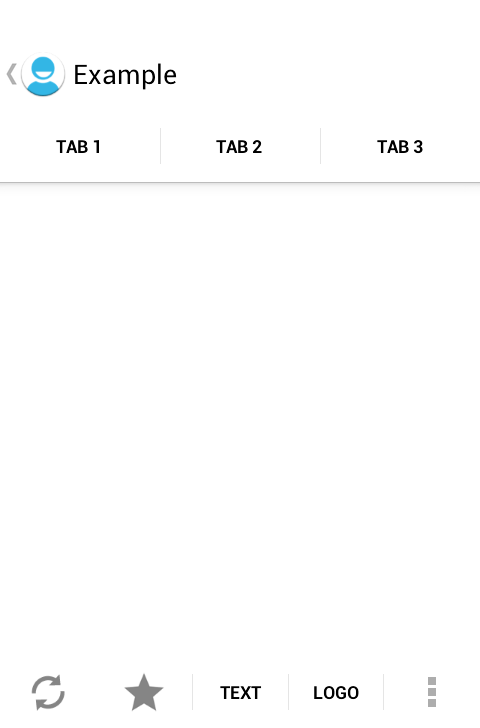
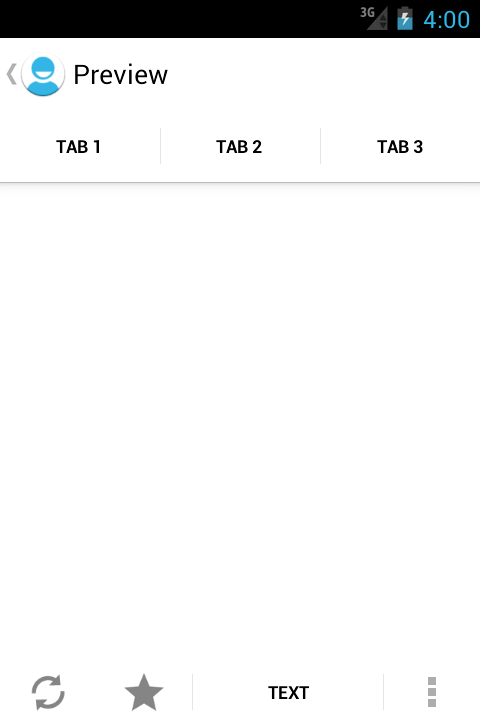
implemented preview for light/dark, solid/transparent. closes #3

Changed region(s): [[0.0, 0.0, 1.0, 0.0604], [0.4688, 0.9368, 0.75, 0.967], [0.1562, 0.0907, 0.375, 0.1209]]

diff --git a/src/html/index.html b/src/html/index.html
@@ -168,15 +168,26 @@
       for (var template in xmlTemplates)
         xmlList[template] = (
           'res/actionbar-xml-templates/' + template + '.xml');
+      
+      var previewList = {};
+      
+      for (var theme in {'light':1, 'dark':1}) {
+        for (var type in {'solid':1, 'transparent':1}) {
+          previewList['back' + '-' + theme + '-' + type] = (
+              'res/actionbar-preview/' + theme + '-' + type + '/' + 'back.png');
+          previewList['fore2' + '-' + theme + '-' + type] = (
+              'res/actionbar-preview/' + theme + '-' + type + '/' + 'fore2.png');
+          previewList['mask-ab-main' + '-' + theme + '-' + type] = (
+              'res/actionbar-preview/' + theme + '-' + type + '/' + 'mask_ab_main.png');
+          previewList['mask-ab-stacked' + '-' + theme + '-' + type] = (
+              'res/actionbar-preview/' + theme + '-' + type + '/' + 'mask_ab_stacked.png');
+          previewList['mask-accent' + '-' + theme + '-' + type] = (
+              'res/actionbar-preview/' + theme + '-' + type + '/' + 'mask_accent.png');
+          previewList['mask-popup' + '-' + theme + '-' + type] = (
+              'res/actionbar-preview/' + theme + '-' + type + '/' + 'mask_popup.png');
+        }
+      }
           
-      var previewList = {
-      	'back':'res/actionbar-preview/light-solid/back.png',
-      	'fore1':'res/actionbar-preview/light-solid/fore1.png',
-      	'mask-ab-main':'res/actionbar-preview/light-solid/mask_ab_main.png',
-      	'mask-ab-stacked':'res/actionbar-preview/light-solid/mask_ab_stacked.png',
-      	'mask-accent':'res/actionbar-preview/light-solid/mask_accent.png'
-      };
-
 	  var XML_RESOURCES = {};
 	  var IMAGE_RESOURCES = {};
 	  var PREVIEW_RESOURCES = {};
@@ -520,12 +531,15 @@
 			var tmpCtxAB = imagelib.drawing.context(iconSize);
 			var tmpCtxStacked = imagelib.drawing.context(iconSize);
 			var tmpCtxAccent = imagelib.drawing.context(iconSize);
+			var tmpCtxPopup = imagelib.drawing.context(iconSize);
 
 			var fillColor = values['backColor'].color;
+			
+			var abStyle = values['actionbarstyle'];
 
 			tmpCtxAB.save();
 			tmpCtxAB.globalCompositeOperation = 'source-over';
-			imagelib.drawing.copy(tmpCtxAB, PREVIEW_RESOURCES['mask-ab-main'], iconSize);
+			imagelib.drawing.copy(tmpCtxAB, PREVIEW_RESOURCES['mask-ab-main' + '-' + baseTheme + '-' + abStyle], iconSize);
 			tmpCtxAB.globalCompositeOperation = 'source-atop';
 			tmpCtxAB.fillStyle = fillColor;
 			tmpCtxAB.fillRect(0, 0, iconSize.w, iconSize.h);
@@ -535,7 +549,7 @@
 			
 			tmpCtxStacked.save();
 			tmpCtxStacked.globalCompositeOperation = 'source-over';
-			imagelib.drawing.copy(tmpCtxStacked, PREVIEW_RESOURCES['mask-ab-stacked'], iconSize);
+			imagelib.drawing.copy(tmpCtxStacked, PREVIEW_RESOURCES['mask-ab-stacked' + '-' + baseTheme + '-' + abStyle], iconSize);
 			tmpCtxStacked.globalCompositeOperation = 'source-atop';
 			tmpCtxStacked.fillStyle = fillColor;
 			tmpCtxStacked.fillRect(0, 0, iconSize.w, iconSize.h);
@@ -545,18 +559,29 @@
 			
 			tmpCtxAccent.save();
 			tmpCtxAccent.globalCompositeOperation = 'source-over';
-			imagelib.drawing.copy(tmpCtxAccent, PREVIEW_RESOURCES['mask-accent'], iconSize);
+			imagelib.drawing.copy(tmpCtxAccent, PREVIEW_RESOURCES['mask-accent' + '-' + baseTheme + '-' + abStyle], iconSize);
 			tmpCtxAccent.globalCompositeOperation = 'source-atop';
 			tmpCtxAccent.fillStyle = fillColor;
 			tmpCtxAccent.fillRect(0, 0, iconSize.w, iconSize.h);
 			tmpCtxAccent.restore();
 
-			var foreEffect = 1;
-			imagelib.drawing.copy(outCtx, PREVIEW_RESOURCES['back'], iconSize);
+			fillColor = values['tertiaryColor'].color;
+			
+			tmpCtxPopup.save();
+			tmpCtxPopup.globalCompositeOperation = 'source-over';
+			imagelib.drawing.copy(tmpCtxPopup, PREVIEW_RESOURCES['mask-popup' + '-' + baseTheme + '-' + abStyle], iconSize);
+			tmpCtxPopup.globalCompositeOperation = 'source-atop';
+			tmpCtxPopup.fillStyle = fillColor;
+			tmpCtxPopup.fillRect(0, 0, iconSize.w, iconSize.h);
+			tmpCtxPopup.restore();
+
+			var foreEffect = 2;
+			imagelib.drawing.copy(outCtx, PREVIEW_RESOURCES['back' + '-' + baseTheme + '-' + abStyle], iconSize);
 			imagelib.drawing.copy(outCtx, tmpCtxAB, iconSize);
 			imagelib.drawing.copy(outCtx, tmpCtxStacked, iconSize);
+			imagelib.drawing.copy(outCtx, tmpCtxPopup, iconSize);
 			imagelib.drawing.copy(outCtx, tmpCtxAccent, iconSize);
-			imagelib.drawing.copy(outCtx, PREVIEW_RESOURCES['fore' + foreEffect], iconSize);
+			imagelib.drawing.copy(outCtx, PREVIEW_RESOURCES['fore' + foreEffect + '-' + baseTheme + '-' + abStyle], iconSize);
 
 			imagelib.loadFromUri(outCtx.canvas.toDataURL(), function(backgroundShape) {
 				return function(img) {
